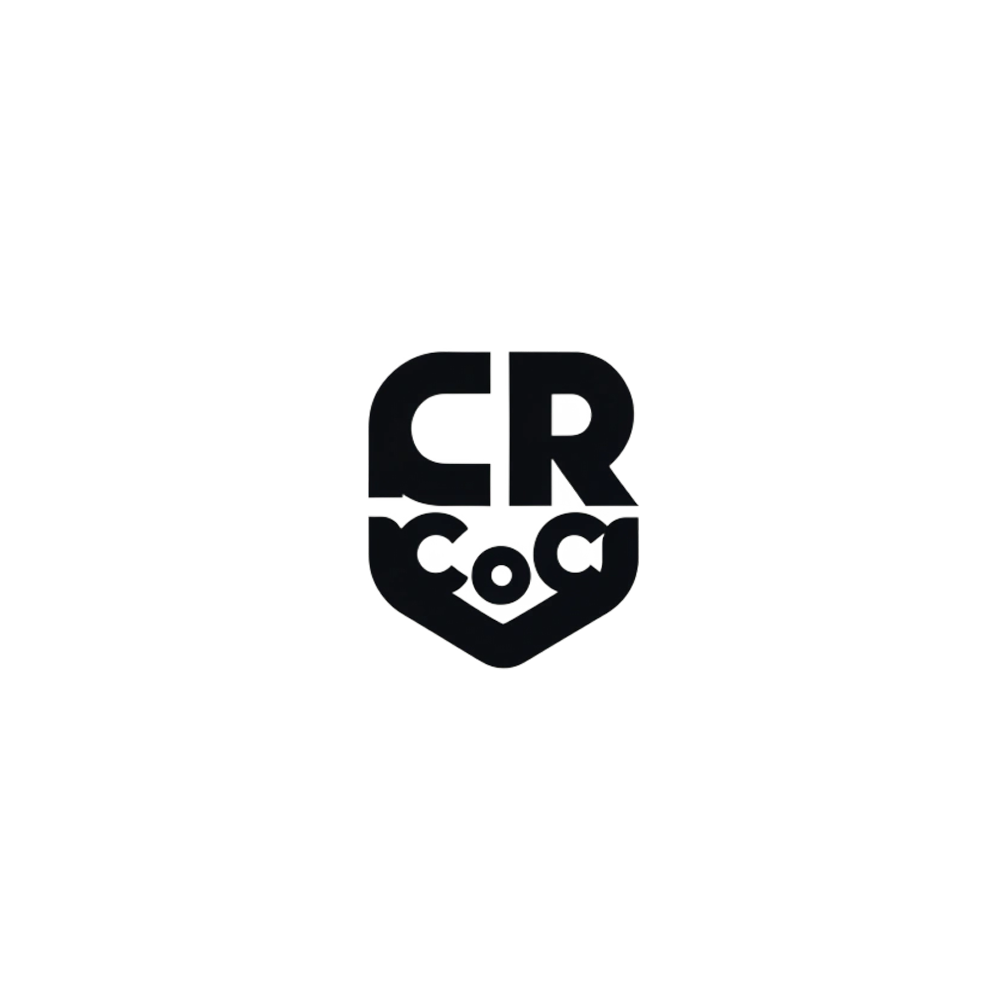
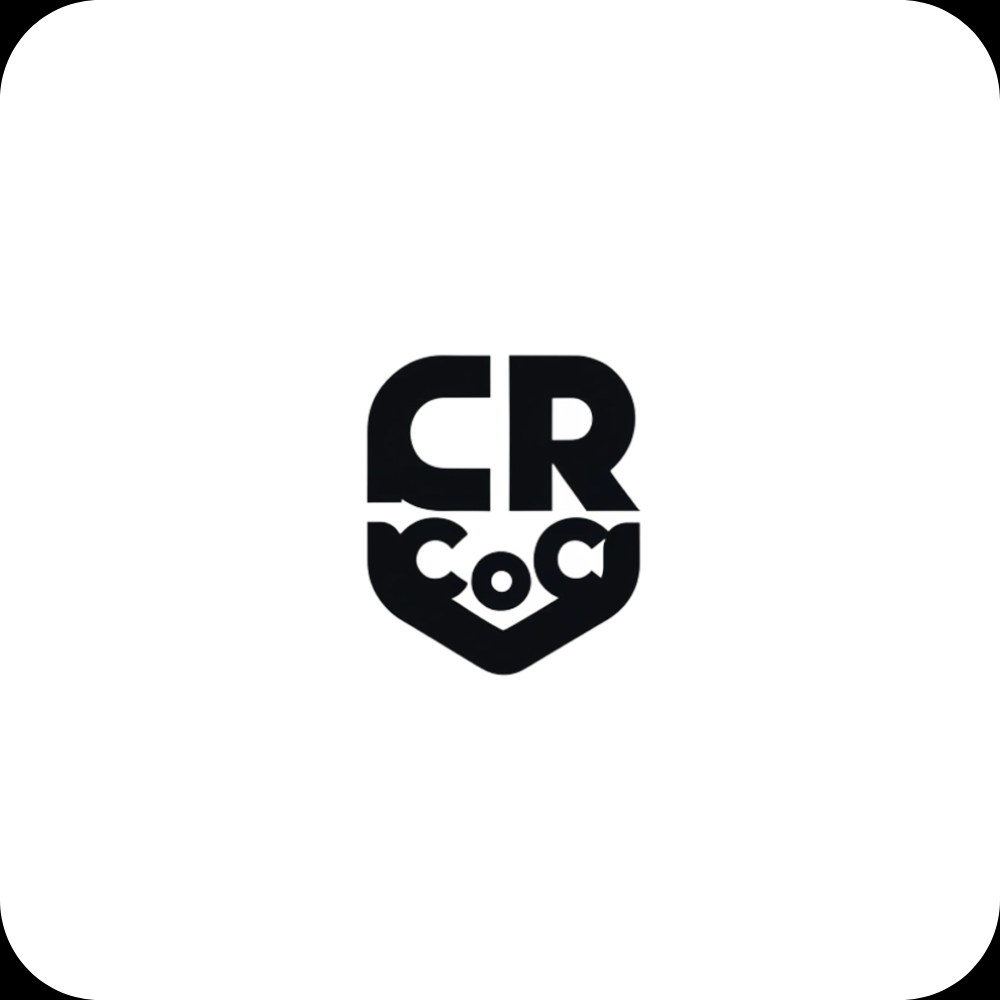
Add files via upload

diff --git a/style.css b/style.css
@@ -127,13 +127,6 @@ body {
 .logo-icon-img {
     width: 28px;
     height: 28px;
-    object-fit: contain;
-    filter: brightness(0) invert(1);
-    transition: var(--transition-smooth);
-}
-
-.logo-placeholder:hover .logo-icon-img {
-    filter: brightness(0) invert(1) drop-shadow(0 0 4px rgba(255, 215, 0, 0.5));
 }
 
 .logo-text-wrapper {